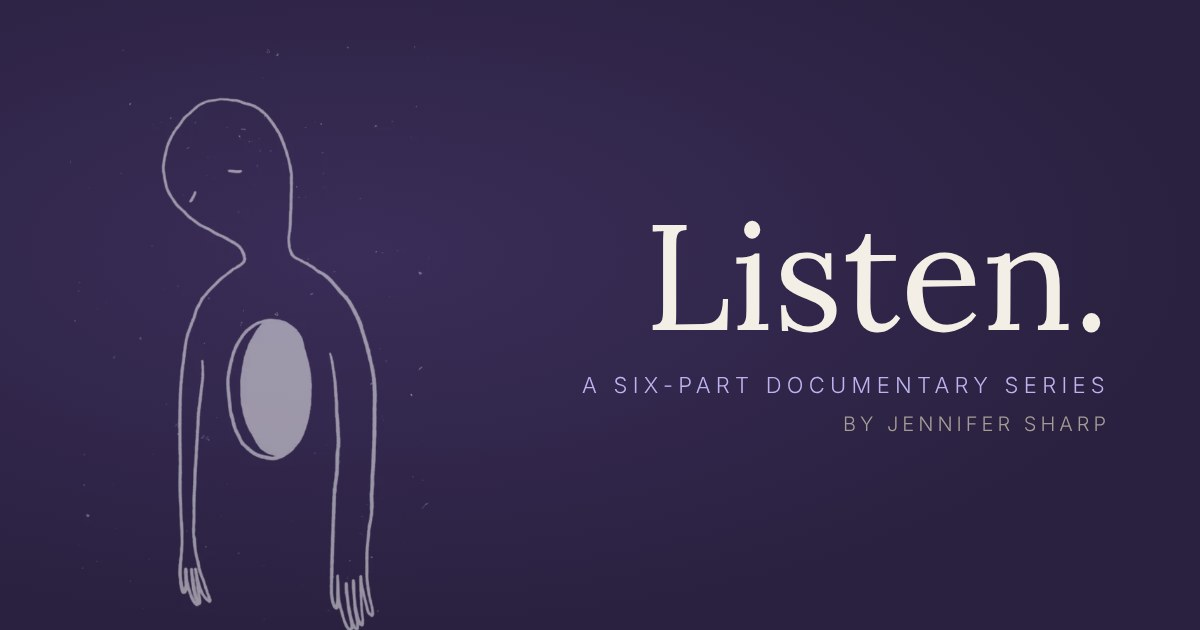
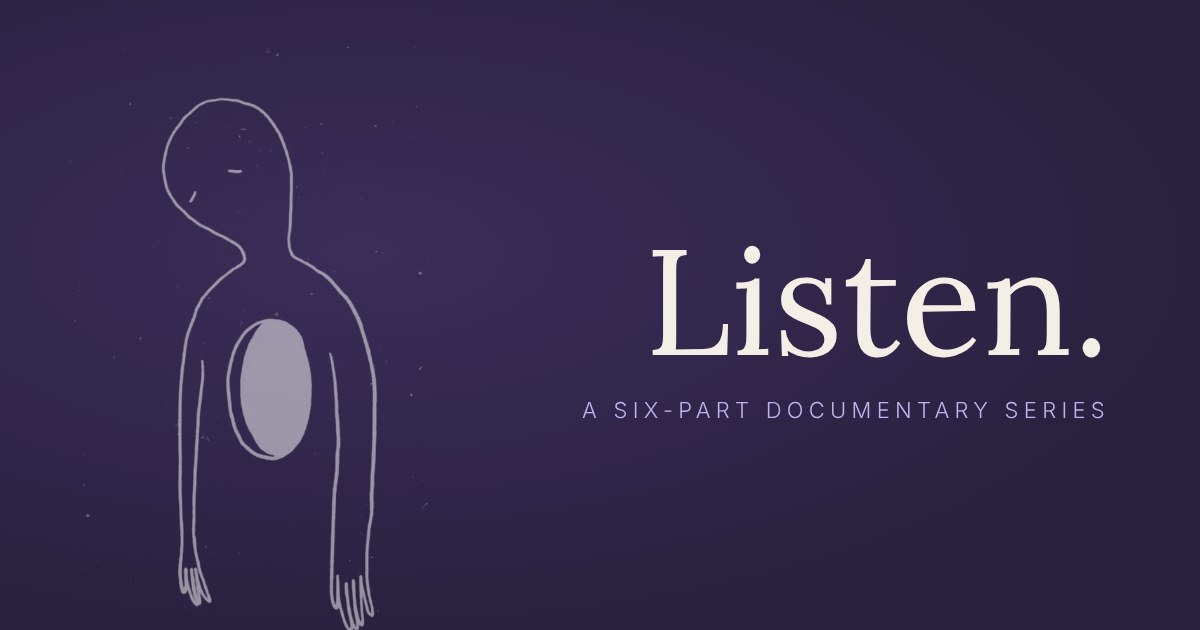
Add files via upload

Changed region(s): [[0.5242, 0.3317, 0.925, 0.573], [0.4933, 0.6032, 0.925, 0.6937], [0.5242, 0.3619, 0.5858, 0.4222]]

diff --git a/index.html b/index.html
@@ -1,9 +1,9 @@
 <!doctype html>
 <html lang="en"><head><meta charset="utf-8">
 <meta name="viewport" content="width=device-width, initial-scale=1">
-<title>Listen | A docuseries by Jennifer Sharp</title>
-<meta name="description" content="Listen: a six-part docuseries by Jennifer Sharp. Families harmed after a COVID vaccine filmed their own lives, hoping someone would listen.">
-<meta property="og:title" content="Listen. A six-part docuseries by Jennifer Sharp">
+<title>Listen. | A six-part documentary series</title>
+<meta name="description" content="What happens to a person when no one listens? A six-part documentary series.">
+<meta property="og:title" content="Listen. A six-part documentary series">
 <meta property="og:type" content="website">
 <meta property="og:url" content="https://listenseries.com/">
 <meta property="og:image" content="https://listenseries.com/share.jpg">
@@ -11,7 +11,9 @@
 <meta property="og:image:height" content="630">
 <meta name="twitter:card" content="summary_large_image">
 <meta name="twitter:image" content="https://listenseries.com/share.jpg">
-<meta property="og:description" content="What happens to a person when no one believes them? Watch the trailer and help tell their stories.">
+<meta property="og:description" content="What happens to a person when no one listens?">
+<meta name="twitter:title" content="Listen. A six-part documentary series">
+<meta name="twitter:description" content="What happens to a person when no one listens?">
 <link rel="stylesheet" href="https://fonts.googleapis.com/css2?family=Lora:ital,wght@0,400;0,500;1,400;1,500&family=Inter:wght@300;400;500&display=swap">
 <style>
 /* Warm paper page, dark ink type, one deep-lavender accent; dark film tiles sit on top like prints */
